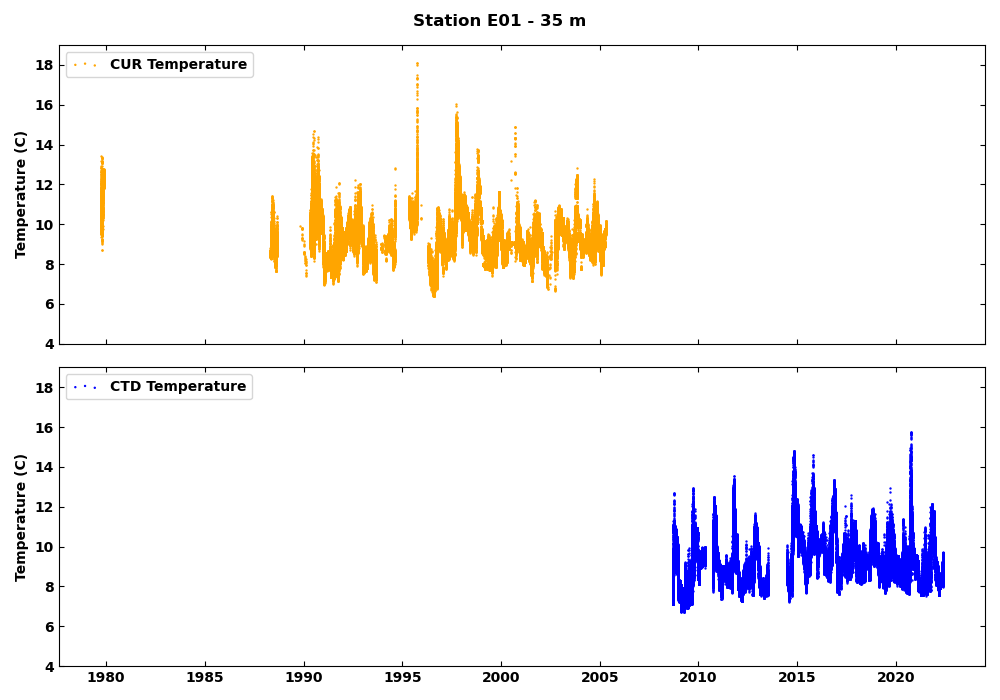
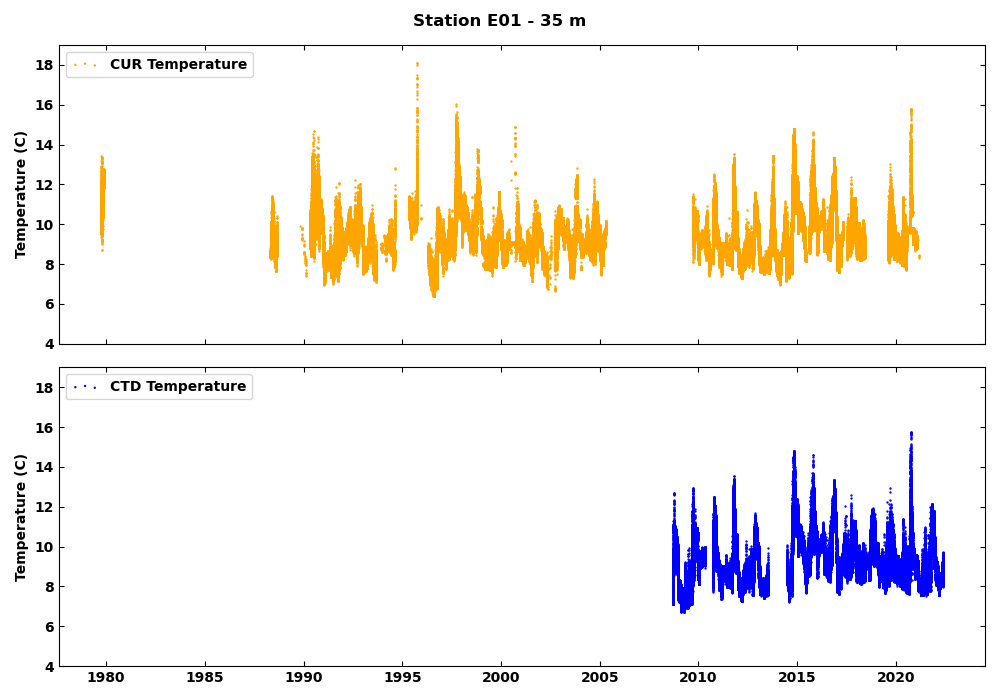
fix bug with current meter temperature data not plotting after 2007

Changed region(s): [[0.682, 0.18, 0.93, 0.42]]

diff --git a/scripts/plot_e01_moored_data.py b/scripts/plot_e01_moored_data.py
@@ -591,18 +591,15 @@ def run_plot(
     os.chdir(new_dir)
     output_dir = os.path.join(new_dir, 'figures')
 
-    # Files are too big to store in the github project directory
+    # Files are too big to store in the GitHub project directory
     data_dir = 'E:\\charles\\e01_data_page\\csv_data\\'
 
     file_list = [data_dir + 'e01_cur_data_all.csv', data_dir + 'e01_ctd_data.csv']
 
     # Only keep current meter data before 2007 since 2008 is when CTD data start
-    if do_raw_by_inst:
-        df_all = pd.concat((pd.read_csv(file_list[0]), pd.read_csv(file_list[1])))
-    else:
-        cur_data = pd.read_csv(file_list[0])
-        cur_data_pre2007 = cur_data.loc[cur_data['Date'].to_numpy() < '2007', :]
-        df_all = pd.concat((cur_data_pre2007, pd.read_csv(file_list[1])))
+    cur_data = pd.read_csv(file_list[0])
+    cur_data_pre2007 = cur_data.loc[cur_data['Date'].to_numpy() < '2007', :]
+    df_all = pd.concat((cur_data_pre2007, pd.read_csv(file_list[1])))
 
     # Reset the index in the dataframe
     df_all.reset_index(drop=True, inplace=True)
@@ -620,13 +617,21 @@ def run_plot(
         for var in VARS:
             plot_annual_samp_freq(df_dt, var, output_dir)
 
-    if do_raw_by_inst:
-        print('Plotting raw data by instrument ...')
-        plot_raw_TS_by_inst(df_dt, output_dir)
+    if do_raw_by_inst or do_raw:
+        # Include current meter data after 2007!
+        df_all = pd.concat((pd.read_csv(file_list[0]), pd.read_csv(file_list[1])))
+        # Reset the index in the dataframe
+        df_all.reset_index(drop=True, inplace=True)
+        # Add datetime-format date for plotting ease
+        df_dt = add_datetime(df_all)
 
-    if do_raw:
-        print('Plotting raw data combining CTD and CUR data ...')
-        plot_raw_time_series(df_dt, output_dir)
+        if do_raw_by_inst:
+            print('Plotting raw data by instrument ...')
+            plot_raw_TS_by_inst(df_dt, output_dir)
+
+        if do_raw:
+            print('Plotting raw data combining CTD and CUR data ...')
+            plot_raw_time_series(df_dt, output_dir)
 
     if do_daily_means:
         print('Plotting daily mean data ...')
